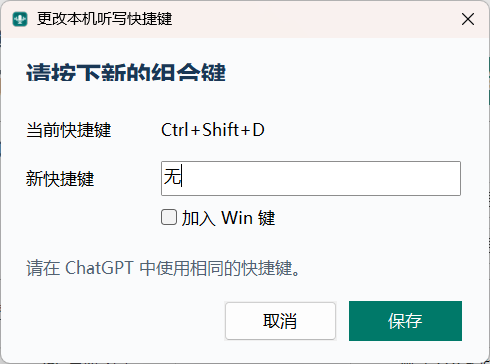
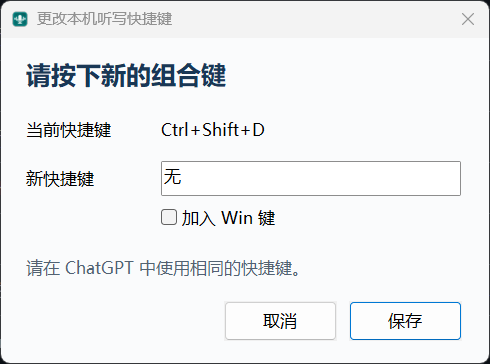
Fix clipped dialog titles and clarify first-run setup

diff --git a/docs/portable_quick_start.html b/docs/portable_quick_start.html
@@ -11,15 +11,15 @@
 <h1>DJI 听写便携版</h1>
 <p>当前实测设备为 <strong>DJI Mic Mini 2S</strong>。</p>
 <ol>
-  <li>完整解压 ZIP 到可写的目录，双击 <code>DJI 听写.exe</code>，再点「启动绑定」。</li>
-  <li>在本机或远端的 ChatGPT 输入框确认快捷键可用，默认是 <kbd>Ctrl+Shift+D</kbd>。改键后，ChatGPT 的单击听写快捷键需与工具中对应的一行匹配。</li>
-  <li>短按一次 DJI 发射器按钮开始听写，再按一次结束。用 RDP 时，在远程桌面中启用麦克风重定向。</li>
+  <li>完整解压 ZIP 到可写的目录，双击 <code>DJI 听写.exe</code>。将 USB-C 接收器插到本机，确认发射器已配对，麦克风选择 <code>Wireless Mic Rx</code>。</li>
+  <li>在 ChatGPT 的「设置 → 语音 → 听写 → 单击快捷键」设为 <kbd>Ctrl+Shift+D</kbd>，在聊天输入框用键盘验证开始、结束和转写。改键时需与软件中对应的一行匹配。</li>
+  <li>点「启动绑定」，确认显示「运行中」。点进聊天输入框，短按一次 DJI 发射器按钮开始听写，再按一次结束。用 RDP 时，先在远程桌面中启用麦克风重定向。</li>
 </ol>
 <h2>测试与维护</h2>
 <ul>
-  <li>「测试 DJI 按钮」可确认收到按钮事件。然后回到 ChatGPT 输入框验证转写。</li>
+  <li>「测试 DJI 按钮」只检查按钮信号。检测到信号后点「完成」，再回到 ChatGPT 输入框验证转写。</li>
   <li>运行时关闭窗口会收进托盘。托盘可暂停、恢复、切换开机自启和退出。</li>
-  <li>高级设置里的音量加拦截也会拦截键盘音量加。只在需要时开启。</li>
+  <li>DJI 短按听写时若同时调高音量，在「高级设置」勾选「拦截音量加键」并保存。绑定运行时也会拦截实体键盘的音量加键。可用 Windows 音量滑块调音量，或取消勾选、暂停、停止绑定或退出程序来恢复音量加键。</li>
   <li>移动目录前先从托盘退出。移动后打开应用，点「登录时自动启动（路径已变，点击修复）」。升级时将旧包的 <code>config/DJI_Mic_Hotkey.ini</code> 复制到新版的对应位置。</li>
   <li>主界面的「开发者模式」打开原版 AutoHotkey 控制面板。编程帮助在官方网页。</li>
 </ul>

diff --git a/README.md b/README.md
@@ -4,29 +4,28 @@
 
 汉化 AutoHotkey 常用界面，用 DJI 按钮触发本机或 RDP 的 ChatGPT 输入框听写。
 
-## ✨ 用途与适用范围
+当前实测设备为 **DJI Mic Mini 2S**，覆盖本机、RDP 窗口和全屏的 ChatGPT 输入框听写。
 
-当前实测设备为 **DJI Mic Mini 2S**，覆盖本机、RDP 窗口和全屏的 ChatGPT 输入框听写。两端默认快捷键为 `Ctrl+Shift+D`。其他设备和场景请按[测试步骤](docs/MANUAL.md#verify)检查。
+## 🚀 第一次使用
 
-## 🧰 准备条件
+1. **下载并打开。** 在 Windows x64 上，从 [GitHub Releases](https://github.com/Solismuchengxue/Solis_DJImic_Hotkey/releases) 的 Assets 下载 `Solis_DJImic_Hotkey_v<版本号>_windows-x64.zip`。右键「全部解压缩」，打开解压后的目录，双击 `DJI 听写.exe`。便携包自带 AutoHotkey。
+2. 把 USB-C 接收器插到本机，打开发射器并确认已配对。在 Windows 和 ChatGPT 的麦克风设置中选择 `Wireless Mic Rx`。
+3. 在 ChatGPT 的「设置 → 语音 → 听写 → 单击快捷键」设为 `Ctrl+Shift+D`，上方的按住或双击入口保持关闭。点进聊天输入框，用键盘按一次开始听写，说一句话，再按一次结束。看到文字出现在输入框后，再试 DJI。
+4. 回到 DJI 听写主窗口，点「启动绑定」，确认显示「运行中」。重新点进 ChatGPT 输入框，短按一次 **DJI 发射器**的按钮开始听写，说完再短按一次结束。确认转写正确后发送。
 
-接好 DJI 接收器并配对发射器，麦克风选择 `Wireless Mic Rx`。先在本机和远端的 ChatGPT 聊天输入框用 `Ctrl+Shift+D` 验证听写。
+用 RDP 时，程序仍在连接接收器的本机运行。连接前在远程桌面客户端选择「本地资源 → 远程音频 → 设置 → 远程音频录制 → 从此计算机录制」。连接后，在远端选用重定向的麦克风，再按第 3 步设置并验证远端 ChatGPT。
 
-## 🚀 安装或接入
+如果键盘快捷键能听写、DJI 短按无反应，点主界面的「测试 DJI 按钮」。该窗口只检查按钮信号。看到「已收到按钮信号」后，点「完成」，确认绑定仍在运行，再回到聊天输入框测试听写。
 
-已发布的便携版可从 [GitHub Releases](https://github.com/Solismuchengxue/Solis_DJImic_Hotkey/releases) 下载。解压便携 ZIP 后双击 `DJI 听写.exe`，按[便携版步骤](docs/MANUAL.md#portable)启用。
+## 🔊 拦截音量加键
 
-单独安装的 AutoHotkey 可按[汉化步骤](docs/MANUAL.md#install)应用中文菜单和设置。
+DJI 发射器短按会发出 Windows 的「音量加」事件。程序用这个事件触发听写。默认关闭拦截，所以短按 DJI 时可能同时调高系统音量。
 
-## 🎬 第一次使用
-
-1. 在便携版主界面点「启动绑定」，确认显示「运行中」。
-2. 点进本机或 RDP 中的 ChatGPT 输入框，DJI 按一次开始，再按一次结束。
-3. 检查转写文字后发送。
+如果希望 DJI 短按只触发听写，在主窗口点「高级设置」，勾选「拦截音量加键」，再点「保存」。绑定运行时，实体键盘和其他设备的音量加也会被拦截。可用 Windows 音量滑块调音量，或取消勾选、暂停、停止绑定或退出程序来恢复实体音量加键。
 
 ## 界面预览
 
-`v0.1.1` 的 Windows 实际界面。
+`v0.1.1` 开发版的 Windows 实际界面。
 
 | 主窗口 | 更改快捷键 | 高级设置 | DJI 按钮测试 |
 | :---: | :---: | :---: | :---: |
@@ -48,6 +47,6 @@
 
 ## 📄 限制与许可
 
-启用音量加拦截时，键盘音量加也会被拦截。便携版默认关闭此项，暂停或退出绑定可恢复音量加。
+其他设备和场景可按手册验证。[测试步骤](docs/MANUAL.md#verify)
 
-安装版汉化适配 AutoHotkey v2.0.31，部分内置提示为英文。可选装 wyagd001 的[简体中文离线帮助 2.0.19](docs/MANUAL.md#chinese-help)。汉化文件沿用上游 GPL v2，见[来源与许可](THIRD_PARTY_NOTICES.md)。
+单独安装的 AutoHotkey v2.0.31 可应用汉化，部分内置提示保留英文。汉化文件沿用上游 GPL v2。[汉化步骤](docs/MANUAL.md#install) · [来源与许可](THIRD_PARTY_NOTICES.md)

diff --git a/docs/MANUAL.md b/docs/MANUAL.md
@@ -9,8 +9,8 @@ DJI 听写通过便携版运行。单独安装 AutoHotkey 的用户可查看[汉
 
 1. 从 [GitHub Releases](https://github.com/Solismuchengxue/Solis_DJImic_Hotkey/releases) 下载 Windows x64 便携 ZIP，完整解压到有写入权限的目录。
 2. 双击 `DJI 听写.exe`。先按[麦克风和 ChatGPT 设置](#chatgpt)验证两端的 `Ctrl+Shift+D`。已有旧脚本正在监听时，先在它自己的托盘退出。
-3. 点「启动绑定」，在聊天输入框短按 DJI 开始听写，再短按结束。可以用「测试 DJI 按钮」查看是否收到按键信号，再回输入框验证转写。
-4. 改键后同步 ChatGPT 的「单击快捷键」。高级设置可调整防重复触发间隔，默认 `250` 毫秒。按需打开「音量加拦截」，开启后键盘音量加也会被拦截。
+3. 点「启动绑定」，在聊天输入框短按 DJI 开始听写，再短按结束。「测试 DJI 按钮」只检查信号。检查完点「完成」，回到输入框验证转写。
+4. 改键后同步 ChatGPT 的「单击快捷键」。高级设置可调整防重复触发间隔，默认 `250` 毫秒。DJI 短按时系统音量也增加，可按需打开[音量加拦截](#volume-up)。
 5. 主窗口与托盘均可切换「开机自启」，默认关闭。切换后可注销并重新登录，检查托盘状态和按钮听写。移动前先退出，移动后打开程序检查并修复开机自启。
 
 从 `v0.1.1` 起，双击根目录的 `DJI 听写.exe`，启动器会调用 `runtime/` 中的官方 AutoHotkey。点「开发者模式」可打开原版 AutoHotkey Dash。产品离线说明在 `docs/使用说明.html`，Dash 的编程帮助使用官方网页。
@@ -26,8 +26,6 @@ DJI 听写通过便携版运行。单独安装 AutoHotkey 的用户可查看[汉
 3. DJI 按一次开始听写，再按一次结束；检查文字后发送。
 
 本机和 RDP 都发送 `Ctrl+Shift+D`。
-
-启用音量加拦截后，暂停或退出绑定可恢复键盘的音量加。
 
 <a id="run"></a>
 ## 2. 启停和改配置
@@ -54,9 +52,14 @@ BlockVolumeUp=0
 
 `!`=Alt，`^`=Ctrl，`+`=Shift，`#`=Win。改键时，ChatGPT 设置和 INI 必须一起改。
 
-`BlockVolumeUp=1` 拦截所有音量加键；`0` 恢复原生音量，DJI 也可能重新增加音量。
-
 手动编辑 INI 前先退出程序，保存后重新启动。
+
+<a id="volume-up"></a>
+### 拦截音量加键
+
+DJI 发射器短按会发送音量加事件。默认 `BlockVolumeUp=0`，短按可以触发听写，也可能同时调高系统音量。要避免自动加音量，在「高级设置」中勾选「拦截音量加键」并保存，对应 `BlockVolumeUp=1`。
+
+绑定运行时，拦截对所有设备生效，实体键盘的音量加也会失效。可以用 Windows 音量滑块调音量。取消勾选、暂停、停止绑定或退出程序会释放音量加键。
 
 <a id="autostart"></a>
 ## 3. 自启动
